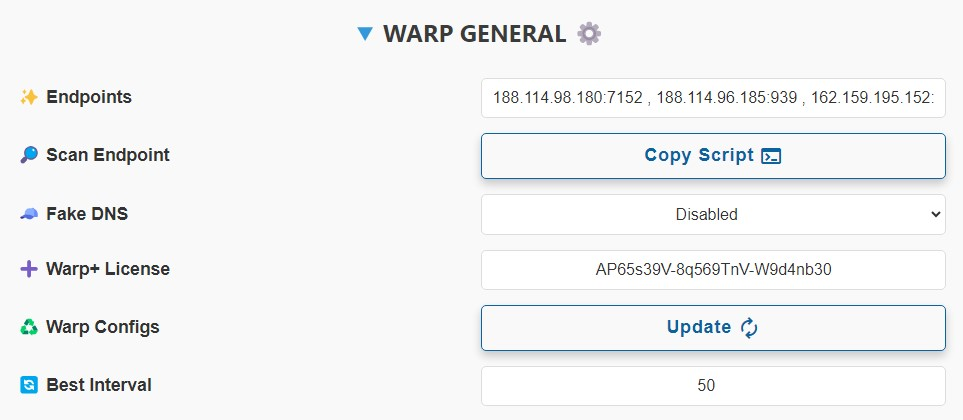
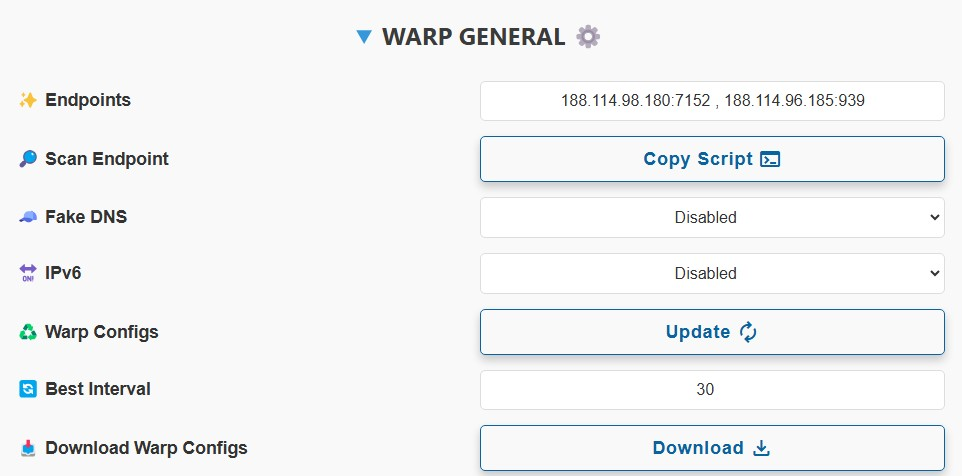
Updated docs.

diff --git a/docs/configuration_fa.md b/docs/configuration_fa.md
@@ -366,21 +366,9 @@
 
 2. میتونید Fake DNS رو برای کانفیگای Warp هم جداگونه فعال کنید، به سرعت DNS کمک میکنه ولی حواستون باشه ممکنه با بعضی برنامهها سازگار نباشه و یا DNS سیستم رو درگیر کنه، بنابراین اگر نمیدونید دقیقا چیه ترجیحا فعالش نکنید.
 3. اگر اپراتورتون از IPv6 پشتیبانی نمیکنه برای عملکرد بهینهی DNS و پروکسی میتونید غیرفعالش کنید.
-4. قسمت Warp+ License شما میتونید یه لایسنس وارپ پلاس اعمال کنید و کانفیگاتون رو به پلاس ارتقا بدید که سرعت بهتری دارن. وقتی وارد کردید اول باید Apply کنید تا ذخیره بشه بعد از قسمت تنظیمات وارپ Update رو بزنید. از [اینجا](https://ircfspace.github.io/warpplus/) یا از این [بات تلگرامی](https://t.me/generatewarpplusbot) یا از این [کانال تلگرامی](https://t.me/warpplus) یه لایسنس Warp Plus بگیرید. اما حواستون باشه که هر لایسنس فقط برای 5 تا کانقیگ وارپ استفاده میشه و هر بار که شما ازش توی پنل استفاده کنید 2 بارش مصرف میشه. بعبارت دیگه اگر لایسنس شما مصرف نشده باشه و بذارید داخل پنل، دو بار میتونید Update رو بزنید و کانفیگاتون تبدیل به پلاس میشه، بعدش ارور میده که Too many connected device.
-
-> [!CAUTION]
-> اگر از کانال تلگرامی یا سایت اولی متعلق به IRCF لایسنس رو بگیرید، چون عمومی هستن ممکنه همون اول بگه Too many connected devices. ولی اون بات تلگرامی هرچی بده جدیده فقط یه سری مراحلی داره که بتونید از بات استفاده کنید.
-   
-> [!TIP]
-> اگر لایسنس Warp+ نداشته باشید و Update کنید میاد همون کانفیگای معمولی جدیدو بروزرسانی میکنه اما اگر داشته باشید میاد تبدیل به کانفیگای Warp Plus میکنه.
-
-> [!TIP]
-> بعد از اینکه لایسنس رو Apply کردید و کانفیگای وارپ رو Update کردید و ساب وارپ رو Update کردید و وصل شدید برای اینکه چک کنید واقعا Plus شده یا نه [این لینک](https://cloudflare.com/cdn-cgi/trace) رو باز کنید، اون آخراش باید نوشته باشه warp=plus.
-
-5. قسمت Warp Configs اینجوریه که اگه Update کنید میره کانفیگای وارپ جدید از کلادفلر میگیره و ذخیره میکنه، اگه سابها رو آپدیت کنید میبینید که تغییر کردن. ولی این قسمت اصلا ربطی به سرعت اتصال نداره.
-<br>
-
-6. زمان چک کردن Best Ping. تو سابهای Warp و Warp PRO ما Best Ping رو داریم. بصورت پیشفرض هر 30 ثانیه میومد بهترین کانفیگ یا Endpoint رو پیدا میکرد و بهش وصل میشد، اما ممکنه اگه سرعت نت خوب نباشه و شما در حال تماشای ویدئو یا بازی کردن باشید این 30 ثانیه دردسرساز بشه و تجربهی Lag داشته باشید. از اینجا میتونید زمان رو تنظیم کنید، حداقل میتونه 10 ثانیه باشه و حداکثر 90.
+4. قسمت Warp Configs اینجوریه که اگه Update کنید میره کانفیگای وارپ جدید از کلادفلر میگیره و ذخیره میکنه، اگه سابها رو آپدیت کنید میبینید که تغییر کردن. ولی این قسمت اصلا ربطی به سرعت اتصال نداره.
+5. زمان چک کردن Best Ping. تو سابهای Warp و Warp PRO ما Best Ping رو داریم. بصورت پیشفرض هر 30 ثانیه میومد بهترین کانفیگ یا Endpoint رو پیدا میکرد و بهش وصل میشد، اما ممکنه اگه سرعت نت خوب نباشه و شما در حال تماشای ویدئو یا بازی کردن باشید این 30 ثانیه دردسرساز بشه و تجربهی Lag داشته باشید. از اینجا میتونید زمان رو تنظیم کنید، حداقل میتونه 10 ثانیه باشه و حداکثر 90.
+6. میتونید کانفیگ وارپ رو به تعداد Endpoint هایی که وارد کردید در یک فایل زیپ از قسمت Download دریافت کنید، مثلا برای استفاده در برنامهی WG Tunnel یا هر بنامهای که فایل کانفیگ وایرگارد رو ساپورت میکنه.
 <br><br>
 
 ## 4- تنظیمات WARP PRO
@@ -391,13 +379,30 @@
 
 فقط برای ساب WARP PRO هست که بالاتر توضیح دادم چیه. چند قسمت داره:
 
-1. اولی Hiddify Noise Mode هست که تعیین میکنه روی چه مودی نویزها (پکتهای فیک) تولید بشن. هستهی Singbox تیم Hiddify این حالتا رو پشتیبانی میکنه:
+1. اولی UDP noise هست که این قابلیت رو به تازگی هسته Xray اضافه کرده و میشه با برنامههای v2rayNG و v2rayN استفاده کرد. هر نویزی که اضافه کنید میتونه جهار مود Base64، String، hex و random داشته باشه. همچنین میتونید در قست Noise Count تعیین کنید از این نویز چندتا به کانفیگ اضافه بشه. دقت کنید شما میتونید چند نویز تعریف کنید با انواع مختلف، لزومی نداره همه مثل هم باشن. مقادیر وارد شده در Packet حتما باید مطابق Mode پر بشه، برای Base64 یه مقدار واقعی Base64 نیازه، برای String میتونه هر رشتهای باشه، برای Random فقط باید طول رشته رو وارد کنید و برای hex هم یه رشته Hex. مثال:
+
+> Base64: NTUyMjU0NjItN2I4MC00YWFmLWE3NDgtNjZiYWZiNjlmNmQ2
+
+> String: salamchetori123
+
+> Random: 10-30
+
+> Hex: 01d800f9373b2c418713aafde43021004ac3b89f
+
+> [!TIP]
+> میتونید [از اینجا](https://onlinebase64tools.com/base64-encode) و یه متن دلخواه رو به Base64 تبدیل کنید.
+> 
+> میتونید [از اینجا](https://onlinetools.com/random/generate-random-hexadecimal-numbers) هم برای تولید یه Hex استفاده کنید.
+
+کانفیگهای این قسمت رو میتونید از ساب Warp Pro بگیرید.
+
+2. اولی Hiddify Noise Mode هست که تعیین میکنه روی چه مودی نویزها (پکتهای فیک) تولید بشن. هستهی Singbox تیم Hiddify این حالتا رو پشتیبانی میکنه:
    
 - مودهای m1 تا m6
 - مود h_HEX که اون HEX میتونه بین 00 تا FF باشه، مثلا h_0a , h_f9 و h_9c و ...
 - مود g_HEX_HEX_HEX که بازم اون HEX مثل بالاس مثلا g_0a_ff_9c
   
-2. دومی NikaNG Noise Mode هست که این حالتا رو داره:
+3. دومی NikaNG Noise Mode هست که این حالتا رو داره:
 
 - مود none یعنی هیچ نویزی اعمال نشه، در اصل میشه همون کانفیگای نرمال وارپ.
 - مود quic که خود تیم سازنده برای شرایط ایران توصیه کرده.

diff --git a/README_fa.md b/README_fa.md
@@ -58,39 +58,39 @@
   <tbody  align="center">
     <tr>
       <td><b>v2rayNG</b></td>
-      <td>1.8.19 و بالاتر</td>
+      <td>1.9.33 و بالاتر</td>
       <td>✔</td>
-      <td>❌</td>
+      <td>✔</td>
     </tr>
     <tr>
       <td><b>v2rayN</b></td>
-      <td>6.42 و بالاتر</td>
+      <td>7.8.3 و بالاتر</td>
       <td>✔</td>
-      <td>❌</td>
+      <td>✔</td>
     </tr>
     <tr>
       <td><b>v2rayN-Pro</b></td>
-      <td>1.4 و بالاتر</td>
+      <td>1.8 و بالاتر</td>
       <td>✔</td>
       <td>✔</td>
     </tr>
     <tr>
-      <td><b>Nekobox</b></td>
+      <td><b>Husi</b></td>
       <td></td>
       <td>❌</td>
       <td>❌</td>
     </tr>
     <tr>
       <td><b>Sing-box</b></td>
-      <td>1.10.1 و بالاتر</td>
+      <td>1.11.2 و بالاتر</td>
       <td>❌</td>
       <td>❌</td>
     </tr>
     <tr>
       <td><b>Streisand</b></td>
-      <td></td>
+      <td>1.6.48 و بالاتر</td>
       <td>✔</td>
-      <td>❌</td>
+      <td>✔</td>
     </tr>
     <tr>
       <td><b>V2Box</b></td>
@@ -113,7 +113,7 @@
     <tr>
       <td><b>Hiddify</b></td>
       <td>2.0.5 و بالاتر</td>
-      <td>❌</td>
+      <td>✔</td>
       <td>✔</td>
     </tr>
     <tr>
@@ -139,6 +139,42 @@
       <td></td>
       <td>❌</td>
       <td>❌</td>
+    </tr>
+  </tbody>
+</table>
+</div>
+
+## متغیرهای محیطی (داشبورد کلادفلر)
+<div dir="rtl">
+<table>
+  <thead>
+    <th>متغیر</th>
+    <th>کاربرد</th>
+  </thead>
+  <tbody  align="center">
+    <tr>
+      <td><b>UUID</b></td>
+      <td>UUID برای پروتکل VLESS</td>
+    </tr>
+    <tr>
+      <td><b>TR_PASS</b></td>
+      <td>پسورد پروتکل Trojan</td>
+    </tr>
+    <tr>
+      <td><b>PROXYIP</b></td>
+      <td>Proxy IP برای VLESS و Trojan</td>
+    </tr>
+    <tr>
+      <td><b>SUB_PATH</b></td>
+      <td>مسیر لینکهای اشتراک شخصی</td>
+    </tr>
+    <tr>
+      <td><b>FALLBACK</b></td>
+      <td>دامنهی پوششی برای VLESS و Trojan</td>
+    </tr>
+    <tr>
+      <td><b>DOH_URL</b></td>
+      <td>DOH برای عملیات داخلی ورکر</td>
     </tr>
   </tbody>
 </table>

diff --git a/README.md b/README.md
@@ -45,21 +45,30 @@ This project is dedicated to developing a user panel for the [Cloudflare-workers
 ## Supported Clients
 | Client  | Version | Fragment | Warp Pro |
 | :-------------: | :-------------: | :-------------: | :-------------: |
-| **v2rayNG**  | 1.8.19 or higher  | :heavy_check_mark: | :x: |
-| **v2rayN**  | 6.42 or higher  | :heavy_check_mark: | :x: |
-| **v2rayN-PRO**  | 1.4 or higher  | :heavy_check_mark: | :heavy_check_mark: |
-| **Nekobox**  |   | :x: | :x: |
-| **Sing-box**  | 1.10.1 or higher  | :x: | :x: |
-| **Streisand**  |   | :heavy_check_mark: | :x: |
+| **v2rayNG**  | 1.9.33 or higher  | :heavy_check_mark: | :heavy_check_mark: |
+| **v2rayN**  | 7.8.3 or higher  | :heavy_check_mark: | :heavy_check_mark: |
+| **v2rayN-PRO**  | 1.8 or higher  | :heavy_check_mark: | :heavy_check_mark: |
+| **Husi**  |   | :x: | :x: |
+| **Sing-box**  | 1.11.2 or higher  | :x: | :x: |
+| **Streisand**  | 1.6.48 or higher  | :heavy_check_mark: | :heavy_check_mark: |
 | **V2Box**  |   | :x: | :x: |
 | **Shadowrocket**  |   | :x: | :x: |
 | **Nekoray**  |   | :heavy_check_mark: | :x: |
-| **Hiddify**  | 2.0.5 or higher  | :x: | :heavy_check_mark: |
+| **Hiddify**  | 2.5.7 or higher  | :heavy_check_mark: | :heavy_check_mark: |
 | **NikaNG**  |   | :heavy_check_mark: | :heavy_check_mark: |
 | **Clash Meta**  |   | :x: | :x: |
 | **Clash Verge Rev**  |   | :x: | :x: |
 | **FLClash**  |   | :x: | :x: |
 
+## Environment variables
+| Variable  | Usage |
+| :-------------: | :-------------: |
+| **UUID**  | VLESS UUID  |
+| **TR_PASS**  | Trojan Password  |
+| **PROXYIP**  | Proxy IP or domain (VLESS, Trojan)  |
+| **SUB_PATH**  | Subscriptions' URI  |
+| **FALLBACK**  | Fallback domain (VLESS, Trojan) |
+| **DOH_URL**  | Core DOH |
 
 ---
 
